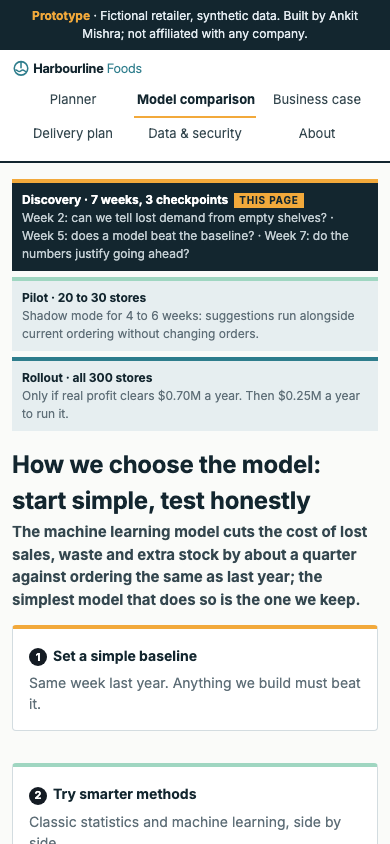
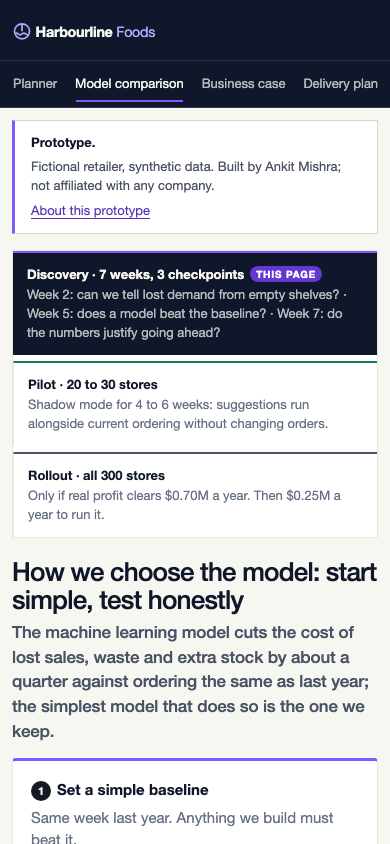
docs: README with use cases for retailers, consultancies, enablement leads, investors and analysts; refreshed screenshots on the new design

diff --git a/README.md b/README.md
@@ -1,49 +1,91 @@
-# Harbourline Foods demand planner (prototype)
+# Harbourline Foods demand planner
 
 > Prototype built by Ankit Mishra. Harbourline Foods is a fictional retailer; all data is synthetic and calibrated to public Statistics Canada series. Not affiliated with, or built for, any company.
 
-**Live demo:** https://harbourline-demand-planner.vercel.app (no sign-in). The site holds no user data: decisions, sent orders and offers live in the browser.
+**Live demo:** https://harbourline-demand-planner.vercel.app (no sign-in; nothing is stored server-side, so what you do in the planner stays in your browser).
 
-A better forecast tells each store how much to order. This prototype shows the three steps of a store forecasting pilot on 24 months of synthetic data for Harbourline Foods, a fictional mid-sized Canadian grocer (300 stores, $200M revenue):
+A better forecast tells each store how much to order. This repository is a working, end-to-end prototype of a grocery demand-forecasting pilot: a data pipeline, four forecasting models backtested in dollars, a store order screen that planners review by exception, a simulated order-to-supplier loop, an autonomy ladder that each product category earns from evidence, a worked business case and a seven-week delivery plan. It runs for a fictional mid-sized Canadian grocer, Harbourline Foods (300 stores, $200M revenue), on a 20-store pilot.
 
-1. **Look at past sales, promotions and holidays:** 104 weeks of weekly sales for 20 pilot stores and 136 products, calibrated to public Statistics Canada series.
-2. **Predict demand for each store and product:** a "same week last year" baseline, a classic time series model, gradient-boosted machine learning and hierarchical reconciliation, tested on a 12-week holdout and judged in dollars.
-3. **Tell planners what to order:** a store order screen with the forecast for next week and the week after, a P10 to P90 range, stock on hand and on order, and a suggested order rounded to the case pack, reviewed by exception. Approved orders go out as one purchase order per supplier, and each category earns autonomy from evidence (see [After approval](#after-approval-sending-orders-and-earning-autonomy)).
+![Landing page](docs/screenshots/landing-desktop.png)
 
-The Business case page works the numbers through from a small set of stated assumptions: $1.06M a year (low $0.72M, high $1.40M), payback in 2.7 years, and the $0.70M go/no-go line.
+| Store order review | Item drawer | Model comparison | Business case |
+|---|---|---|---|
+| ![Planner](docs/screenshots/planner-desktop.png) | ![Planner detail](docs/screenshots/planner-drawer-desktop.png) | ![Models](docs/screenshots/models-desktop.png) | ![Business case](docs/screenshots/business-case-desktop.png) |
 
-![Planner, desktop](docs/screenshots/planner-desktop.png)
+Phone width: [landing](docs/screenshots/landing-mobile.png) · [planner](docs/screenshots/planner-mobile.png) · [drawer](docs/screenshots/planner-drawer-mobile.png) · [models](docs/screenshots/models-mobile.png) · [business case](docs/screenshots/business-case-mobile.png) · [delivery plan](docs/screenshots/plan-mobile.png) · [security](docs/screenshots/security-mobile.png) · [about](docs/screenshots/about-mobile.png)
 
-| Order review drawer | Model comparison | Business case |
-|---|---|---|
-| ![Planner detail](docs/screenshots/planner-drawer-desktop.png) | ![Models](docs/screenshots/models-desktop.png) | ![Business case](docs/screenshots/business-case-desktop.png) |
+## Contents
 
-Phone width: [planner](docs/screenshots/planner-mobile.png) · [models](docs/screenshots/models-mobile.png) · [business case](docs/screenshots/business-case-mobile.png) · [delivery plan](docs/screenshots/plan-mobile.png) · [security](docs/screenshots/security-mobile.png) · [about](docs/screenshots/about-mobile.png) · [landing](docs/screenshots/landing-mobile.png)
+- [What it does](#what-it-does)
+- [Use cases](#use-cases)
+- [Pages](#pages)
+- [Presenting the demo in five minutes](#presenting-the-demo-in-five-minutes)
+- [Results](#results-12-week-holdout-20-stores--136-products-synthetic-data)
+- [Business case](#how-it-maps-to-the-business-case)
+- [The data](#the-data)
+- [The models](#the-models-pipelinetrain_backtestpy)
+- [Review rules and thresholds](#review-rules-and-thresholds-pipelineexportpy)
+- [After approval: sending orders and earning autonomy](#after-approval-sending-orders-and-earning-autonomy)
+- [How it is built](#how-it-is-built)
+- [Run it locally](#run-it-locally)
+- [Deliberate simplifications](#deliberate-simplifications) and [Limitations](#limitations)
+- [What a real engagement would add](#what-a-real-engagement-would-add)
 
-## Presenting this demo (five minutes)
+## What it does
 
-1. **Open the planner** from the landing page. It lands on Store S09, Toronto Leslieville.
-2. **Store order review.** Point at the yellow tile: 24 of 136 items need a planner this week; the rest are auto-approved. The table is sorted needs-review first, then priority, then days of supply. Read one High row aloud: stock runs out before the next delivery.
-3. **Open an item** (click a row). Walk the drawer top to bottom: forecast vs actual with the P10–P90 band, "why this forecast", the order calculation, inventory position, fresh spoilage, and the suggested offer if there is one.
-4. **Accept or override.** Accept one suggestion; override another with a reason. Show the change log filling up.
-5. **Send orders.** "Review and send" is blocked while exceptions remain; use "Accept the N remaining" then review the sheet: one purchase order per supplier, lead time, expected delivery, open-to-buy check. Send. Watch the Sent orders cards move Sent → Acknowledged (20 s) → Shipped (60 s) → Received.
-6. **Autonomy ladder** (chip beside the search box). Thresholds on top, evidence per category below: Pantry earned L3 in the backtest and lost it; fresh stays at L2.
-7. **Suggested offers.** Markdowns on fresh stock that will outlast its shelf life; flyer candidates with excess cover or a strong lift last year. Accept one, dismiss one with a reason.
-8. **Business case.** Three levers, $1.06M against the $0.70M line, payback 2.7 years; the synthetic backtest is labelled illustrative. Close on the Delivery plan: seven weeks, three checkpoints, and how the pieces connect.
+1. **Look back.** 104 weeks of weekly sales, promotions, holidays and weather for 20 pilot stores and 136 products, generated with seasonality and food-price inflation calibrated to public Statistics Canada series.
+2. **Predict.** A "same week last year" baseline, a classic time series model, gradient-boosted machine learning and hierarchical reconciliation, tested on a 12-week holdout and judged on the dollars they save (lost margin, waste, carrying cost), not only on error.
+3. **Order.** A store order screen with the forecast for next week and the week after, a P10 to P90 range, stock on hand and on order, and a suggested order rounded to the case pack. Items that pass every rule are approved automatically; planners decide the exceptions. Approved orders go out as one purchase order per supplier, suppliers acknowledge and ship (simulated), and each category earns more autonomy as its evidence accumulates.
+4. **Decide.** A business case from stated assumptions ($1.06M a year in the base case against a $0.70M go/no-go line, payback 2.7 years) and a seven-week discovery plan with three checkpoints where the work stops if the numbers do not clear.
 
-"Clear demo changes" on the planner page resets the browser state between runs.
+## Use cases
+
+The prototype is a complete reference implementation of a "prove it, then scale it" AI pilot. It is useful to several kinds of reader; start where your question is.
+
+### A retailer or grocer weighing AI-assisted replenishment
+
+You want to know what the end state looks like for your planners before you commit to a vendor or a build. Open the [planner](https://harbourline-demand-planner.vercel.app/planner/), pick a store, and work a week: accept a suggestion, override another with a reason, send the purchase orders, watch the supplier replies, and open the autonomy ladder to see what a category has to prove before the system orders on its own. The [Data & security](https://harbourline-demand-planner.vercel.app/security/) page lists what your IT and data owners would sign off at weeks 5 and 7, and the [Delivery plan](https://harbourline-demand-planner.vercel.app/plan/) shows what you would need to provide in week 1.
+
+### An AI consultancy or strategy team running discovery to pilot
+
+Every page maps to an engagement deliverable. Discovery (7 weeks): the value tree and three checkpoints (week 2 lost demand, week 5 model beats baseline, week 7 business case) are on the Delivery plan; the week 5 deliverable is the [Model comparison](https://harbourline-demand-planner.vercel.app/models/), and the week 7 deliverable is the [Business case](https://harbourline-demand-planner.vercel.app/business-case/). Pilot (20 to 30 stores, shadow mode): the planner screen. Rollout: the autonomy ladder and the integration loop. The six-risk table, the owner column and the "a failed checkpoint is a result, not a failure" rule are the governance scaffolding a client sponsor expects to see. Reuse the structure; swap in the client's data in week 1.
+
+### An enterprise AI enablement or transformation lead
+
+Adoption is designed in, not bolted on: review by exception so planners see only what needs a decision; a reason code on every override, logged and visible, so the model learns from the people using it; an autonomy ladder (L1 approve every line, L2 exceptions only, L3 autonomous with veto) with thresholds set per category class, so trust is earned with evidence and can be lost again; and a named, scoped service account for anything the system writes back to the ordering system. The integration page describes the EDI 850/855/856 loop retailers already run, so the change is to the decision, not the plumbing.
+
+### An investor or portfolio-operations team
+
+This is a stage-gated spend. $0.175M of discovery buys three go/no-go decisions before the $0.45M pilot and the $0.60M rollout, and the whole programme stops if real profit does not clear $0.70M a year. The levers are set at or below the low end of published vendor results, so the case is conservative, and the cumulative-cash chart shows the payback path. The same template applies to any portfolio company with recurring replenishment decisions: grocery, convenience, pharmacy, food service, parts distribution.
+
+### A data scientist or analyst who wants a backtest-in-dollars template
+
+The pipeline is small enough to read in an afternoon: [`generate_data.py`](pipeline/generate_data.py) (synthetic demand with explicit, documented assumptions), [`train_backtest.py`](pipeline/train_backtest.py) (five models, rolling 12-week holdout, a simulation that prices every forecast error in lost margin, waste and carrying cost), [`business_case.py`](pipeline/business_case.py) and [`export.py`](pipeline/export.py) (exception rules, priorities, autonomy evidence). Thirty Python tests pin the invariants, so you can change a model and see whether the dollars, the review rate and the spoilage band still hold.
 
 ## Pages
 
 | Page | What it shows | Where it sits in the plan |
 |---|---|---|
-| Landing | What the prototype is, the three steps, and links into every page | |
-| **Planner** | Store picker, "Order for Wk 43 / Wk 44", KPI strip (WAPE, bias, in-stock, spoilage, inventory value), search by item, SKU or UPC, Department › Category › Subcategory, status, exception, fresh, promo and supplier filters; order table sorted needs-review → priority → days of supply; accept or override with a reason code; change log; send orders (one PO per supplier, open-to-buy check, simulated supplier replies); autonomy ladder per category; suggested markdowns and flyer candidates; item drawer with forecast vs actual, "why this forecast", order calculation, inventory position, fresh info, offers and item accuracy | Pilot, shadow mode |
+| Landing | This week's pilot status (order week, stores, items needing a planner, WAPE, in-stock, model in use), the 20 stores with a direct link into each store's order screen, the model table and the business-case levers | |
+| **Planner** | Store picker (also `?store=S01` in the URL), "Order for Wk 43 / Wk 44", KPI strip (WAPE, bias, in-stock, spoilage, inventory value), search by item, SKU or UPC, Department › Category › Subcategory, status, exception, fresh, promo and supplier filters; order table sorted needs-review → priority → days of supply; accept or override with a reason code; change log; send orders (one PO per supplier, open-to-buy check, simulated supplier replies); autonomy ladder per category; suggested markdowns and flyer candidates; item drawer with forecast vs actual, "why this forecast", order calculation, inventory position, fresh info, offers and item accuracy | Pilot, shadow mode |
 | Model comparison | Four steps ("start simple, test honestly"), results table, winner per category, the "sales are not demand" watch-out | Discovery week 5 checkpoint |
 | Business case | Three levers, cumulative cash, costs, low/base/high, break-even, comparison with published results, and the synthetic backtest (illustrative) | Discovery week 7 checkpoint |
-| Delivery plan | The 7-week discovery plan and three checkpoints, six risks, pilot and adoption, how the planner connects to the ordering system and how autonomy is earned | The whole journey |
+| Delivery plan | The 7-week discovery plan and three checkpoints, six risks with owners, pilot and adoption, how the planner connects to the ordering system and how autonomy is earned | The whole journey |
 | Data & security | Canadian residency, encryption, role-based access, monitoring, integration and write access, sign-off at weeks 5 and 7 | Sixth risk |
 | About | Data, models, review rules and thresholds, formulas, design references, limits | |
+
+## Presenting the demo in five minutes
+
+1. **Landing page.** Point at the status strip (Wk 43, 20 stores, 424 of 2,720 items need a planner) and the store tiles. Click a store with a high review count.
+2. **Store order review.** The violet tile counts the items that need a planner this week; the rest are auto-approved. The table is sorted needs-review first, then priority, then days of supply. Read one High row aloud: stock runs out before the next delivery.
+3. **Open an item** (click a row). Walk the drawer top to bottom: forecast vs actual with the P10 to P90 band, "why this forecast", the order calculation, inventory position, fresh spoilage, and the suggested offer if there is one.
+4. **Accept or override.** Accept one suggestion; override another with a reason. Show the change log filling up.
+5. **Send orders.** "Review and send" is blocked while exceptions remain; use "Accept the N remaining", then review the sheet: one purchase order per supplier, lead time, expected delivery, open-to-buy check. Send. Watch the Sent orders cards move Sent → Acknowledged (20 s) → Shipped (60 s) → Received.
+6. **Autonomy ladder** (chip beside the search box). Thresholds on top, evidence per category below: Household holds L3; fresh stays at L2 through the pilot.
+7. **Suggested offers.** Markdowns on fresh stock that will outlast its shelf life; flyer candidates with excess cover or a strong lift last year. Accept one, dismiss one with a reason.
+8. **Business case and Delivery plan.** Three levers, $1.06M against the $0.70M line, payback 2.7 years; the synthetic backtest is labelled illustrative. Close on seven weeks, three checkpoints, and how the pieces connect.
+
+"Clear demo changes" and "Clear sent orders" on the planner page reset the browser state between runs.
 
 ## Results (12-week holdout, 20 stores × 136 products, synthetic data)
 
@@ -57,11 +99,11 @@ Phone width: [planner](docs/screenshots/planner-mobile.png) · [models](docs/scr
 
 Winner by category (lowest dollar cost): Bakery: hierarchical, Beverages: hierarchical, Dairy & Eggs: ML, Frozen: classic, Household: ML, Meat & Seafood: hierarchical, Pantry: hierarchical, Produce: ML.
 
-Planner KPIs across the 20 stores, simulated on the holdout with suggested orders, stock carried week to week and shelf-life spoilage ([`pipeline/simulate.py`](pipeline/simulate.py)): in-stock 92.8%, spoilage at cost 1.5% of sales (fresh categories 2% to 4%, ambient near zero), against a chain-wide 2% in the business case. Produce, bakery and meat are ordered daily, dairy and beverages every two days, the rest weekly; safety stock covers the review period, not a full week.
+Planner KPIs across the 20 stores, simulated on the holdout with suggested orders, stock carried week to week and shelf-life spoilage ([`pipeline/simulate.py`](pipeline/simulate.py)): in-stock 93%, spoilage at cost 1.5% of sales (fresh categories 2% to 4%, ambient near zero), against a chain-wide 2% in the business case. Produce, bakery and meat are ordered daily, dairy and beverages every two days, ambient weekly.
 
 **Selection rule:** among models that beat the baseline in dollars, pick the simplest one whose savings are within 10% of the best. Result: **gradient-boosted machine learning**. Hierarchical reconciliation saves slightly more but not enough to justify the extra moving part.
 
-Error is WAPE (total absolute error / total units). Dollars come from simulating each week's order (forecast + one standard deviation of safety stock, scaled to the category's review period) with stock carried week to week, and pricing lost margin on empty shelves (25% margin), spoiled perishables (stock that outlasts its shelf life, at cost, plus a small handling shrink) and carrying cost (15% a year), the same assumptions as the business case.
+Error is WAPE (total absolute error / total units). Dollars come from simulating each week's order (forecast + one standard deviation of safety stock, scaled to the category's review period) with stock carried week to week, and pricing lost margin on empty shelves (25% margin), spoiled perishables (stock that outlasts its shelf life, at cost, plus a small handling shrink) and carrying cost (15% a year on stock at cost).
 
 These are illustrative. Synthetic data has cleaner promotion and holiday signals than real data, and the "same week last year" baseline over-orders on it, so the measured levers (sales +2.0%, waste −30%, stock −26%) sit well above the plan's base case. Discovery replaces every assumption with Harbourline's own data.
 
@@ -90,7 +132,7 @@ Our levers sit at or below the low end of published results, so the case is cons
 
 ## The data
 
-Everything about the stores, products, sales and stock is **synthetic**, generated by [`pipeline/generate_data.py`](pipeline/generate_data.py) with a fixed seed (20261017).
+Everything about the stores, products, sales and stock is **synthetic**, generated by [`pipeline/generate_data.py`](pipeline/generate_data.py) with a fixed seed (20261017). The public inputs that shape it are real and cited.
 
 | Input | Source | Status |
 |---|---|---|
@@ -100,17 +142,17 @@ Everything about the stores, products, sales and stock is **synthetic**, generat
 | Weather | Approximate 1991–2020 monthly temperature normals for one city per region (Environment and Climate Change Canada, Canadian Climate Normals family), rounded, plus random weekly anomalies | Approximate |
 | Promotions, lifts, shrink, case packs, lead times, suppliers, on hand, on order, UPCs | Typical ranges chosen for the demo (UPCs use the restricted "2" prefix for in-store codes) | Assumed |
 
-20 stores across Atlantic, Québec, Ontario, Prairies and BC; 136 products in 8 categories; six products launched in the last ten weeks test the new item case; demand is negative binomial around a seasonal, promotional, holiday and weather adjusted mean. Ambient products (shelf life at least 30 days) use dispersion 18 while short-life fresh products use 8. This class-based calibration was chosen over relaxing the autonomy rule because published ambient grocery error is materially below fresh and the prior synthetic noise floor obscured earned autonomy. The fixed seed keeps the result reproducible.
+20 stores across Atlantic, Québec, Ontario, Prairies and BC; 136 products in 8 categories; six products launched in the last ten weeks test the new item case; demand is negative binomial around a seasonal, promotional, holiday and weather adjusted mean. Ambient products (shelf life at least 30 days) use dispersion 18 while short-life fresh products use 8, because real ambient grocery demand is materially steadier than fresh demand; the autonomy thresholds were not loosened to compensate.
 
 ## The models ([`pipeline/train_backtest.py`](pipeline/train_backtest.py))
 
 - **Naive (reference only):** same as last week.
 - **Baseline:** same week last year (seasonal naive); recent average for items without a year of history.
 - **Classic:** damped Holt exponential smoothing on each series, deseasonalised by a category week-of-year index.
-- **Machine learning:** scikit-learn `HistGradientBoostingRegressor` with a Poisson loss, the same histogram gradient boosting family as LightGBM (LightGBM's native library would not load on the build machine, so the scikit-learn implementation is used). Features: promotion, discount, price, holiday, temperature and anomaly, week of year, lags shifted by the forecast gap, rolling means, and the category's rolling mean in the store.
+- **Machine learning:** scikit-learn `HistGradientBoostingRegressor` with a Poisson loss, the same histogram gradient boosting family as LightGBM. Features: promotion, discount, price, holiday, temperature and anomaly, week of year, lags shifted by the forecast gap, rolling means, and category and store identifiers. One model per horizon, trained on the 92 weeks before the holdout and validated on the 12 weeks before that.
 - **Hierarchical:** the ML store forecasts blended with a region-level model and shared back to stores in proportion.
 - **New products:** the category features let a new item start from similar products' pattern; the planner shows the closest reference item.
-- **Ranges and orders:** P10/P90 from validation-period errors per series; suggested order = P50 + 1.28 × σ × √(review days ÷ 7) (about a 90% service level over the category's review period) − on hand − on order, rounded up to whole cases. For the week after, on hand is projected from today's stock, this week's order, this week's forecast and spoilage, so nothing is counted twice. Days of supply = stock ÷ (forecast ÷ 7); stock on order counts only when it lands before the shelf runs empty.
+- **Ranges and orders:** P10/P90 from validation-period errors per series; suggested order = P50 + 1.28 × σ × √(review days ÷ 7) (about a 90% service level over the category's review period) − on hand − on order, rounded up to whole cases. For the week after, on hand is projected from today's stock, this week's order, this week's forecast and spoilage, so nothing is counted twice. Days of supply = (on hand + on order) ÷ daily forecast.
 
 ## Review rules and thresholds ([`pipeline/export.py`](pipeline/export.py))
 
@@ -126,7 +168,7 @@ An item needs review when at least one rule fires; everything else is auto-appro
 | Holiday week | A statutory holiday week with a category lift ≥ 25% |
 | New item | Launched within the last ten weeks |
 
-Priority: **High** when the stockout or spoilage rule fires (64 lines chain-wide), **Medium** for any other exception (365), **Low** otherwise. The invariants behind the screen (whole cases, P10 ≤ P50 ≤ P90, "why" parts sum to the forecast, the days-of-supply formula, no double counting for the week after, real calendar weeks, the review-rate band and the spoilage band) are tested in [`tests/test_planner_data.py`](tests/test_planner_data.py).
+Priority: **High** when the stockout or spoilage rule fires (64 lines chain-wide), **Medium** for any other exception (365), **Low** otherwise. The invariants behind the screen (whole cases, P10 ≤ P50 ≤ P90, "why" parts sum to the forecast, the days-of-supply formula, no double counting for the week after, real calendar weeks, the review-rate band and the spoilage band) are tested in [`tests/test_planner_data.py`](tests/test_planner_data.py) and [`tests/test_orders.py`](tests/test_orders.py).
 
 ## After approval: sending orders and earning autonomy
 
@@ -134,16 +176,21 @@ Priority: **High** when the stockout or spoilage rule fires (64 lines chain-wide
 |---|---|---|
 | ![Send sheet](docs/screenshots/planner-send-sheet-desktop.png) | ![Sent orders](docs/screenshots/planner-sent-orders-desktop.png) | ![Autonomy](docs/screenshots/planner-autonomy-desktop.png) |
 
-- **Send orders.** Once every exception is decided, the planner reviews one purchase order per supplier or DC (lines, cases, cost at cost price, lead time, expected delivery, lines changed) and the week's spend against the store's open-to-buy (cost of expected sales × 1.10 in the prototype). Sending is simulated: each PO gets a number and moves Sent → Acknowledged (EDI 855, 20 s) → Shipped (EDI 856, 60 s) → Received (delivery date or 120 s), with the stage derived from the send time so a reload keeps it. The Delivery plan page shows the real loop: planner app → ordering/ERP (API or EDI 850) → acknowledgement → ship notice → goods receipt → nightly feed back.
-- **Autonomy ladder.** L1 planner approves every line (shadow mode) · L2 exceptions only (this screen) · L3 autonomous replenishment with veto. Thresholds are set per category class, because ambient items forecast better and stock out less than fresh: ambient WAPE ≤ 35%, bias ± 5%, overrides ≤ 5% of lines, stockouts ≤ 10% of lines; fresh WAPE ≤ 40%, stockouts ≤ 30%. A category moves up after eight consecutive passing weeks. Once promoted, one failing week is a grace week; two consecutive failures demote it. Levels are computed week by week from the 12-week backtest ([`app/src/lib/logic.ts`](app/src/lib/logic.ts)), never set by hand. **Option A was used:** the generator now gives all ambient products a lower, class-based noise level instead of weakening this evidence rule. Household passes all 12 weeks and is L3 (12-week WAPE 27.7%, bias +0.8%, worst-week stockouts 8.8%). Frozen is L2 with five current passing weeks after a +6.4% bias miss; Pantry is L2 after consecutive bias and stockout misses; Beverages is L2 because stockouts remain above 10%; fresh categories remain L2 by design. The panel's "what it needs to move up" column shows the exact evidence and grace/demotion rule. The pilot sets production bars at the week 5 checkpoint.
-- **At L3** the agent checks inventory position, stock constraints, cash (open-to-buy), supplier constraints and the ordering system's acknowledgement, writes the order, logs its reasoning and posts a summary with a veto window. Objective: in-stock ≥ target, waste ≤ target, spend inside open-to-buy.
-- **Suggested offers.** Markdown rule: fresh stock on hand beyond what the remaining shelf life can sell at the forecast rate (≥ 3 units), 30% off Thu–Sat, 80% expected to clear; shown as revenue recovered against the write-off avoided. Flyer rule: cover ≥ 2.5 weeks after this order, or last year's promo lift ≥ 1.3x (capped at 2.5x for the estimate). Accept or dismiss with a reason; both are logged like overrides, and at L3 they would be proposed by the agent automatically.
+- **Send orders.** Once every exception is decided, the planner reviews one purchase order per supplier or DC (lines, cases, cost at cost price, lead time, expected delivery, lines changed) and the week's spend against the store's open-to-buy (cost of expected sales × 1.10 in the prototype). Sending is simulated: each PO gets a number and moves Sent → Acknowledged (EDI 855, 20 s) → Shipped (EDI 856, 60 s) → Received (at the expected delivery date or after 120 s), with the stage derived from the send time so a reload keeps it. The Delivery plan page shows the real loop: planner app → ordering/ERP (API or EDI 850) → acknowledgement → ship notice → goods receipt → nightly feed back into the forecast.
+- **Autonomy ladder.** L1 planner approves every line (shadow mode) · L2 exceptions only (this screen) · L3 autonomous replenishment with veto. Thresholds are set per category class, because ambient items forecast better and stock out less than fresh: ambient WAPE ≤ 35%, bias ± 5%, overrides ≤ 5% of lines, stockouts ≤ 10% of lines; fresh WAPE ≤ 40%, stockouts ≤ 30%. A category moves up after four consecutive passing weeks and drops back after two consecutive misses; fresh categories are capped at L2 through the pilot. Household holds L3 on the backtest evidence; Frozen is on a passing streak; Pantry and Beverages have recent misses.
+- **At L3** the agent checks inventory position, stock constraints, cash (open-to-buy), supplier constraints and the ordering system's acknowledgement, writes the order, logs its reasoning and posts a summary with a veto window. Objective: in-stock ≥ target, waste ≤ target, spend inside open-to-buy. It never changes a price or a planogram itself.
+- **Suggested offers.** Markdown rule: fresh stock on hand beyond what the remaining shelf life can sell at the forecast rate (≥ 3 units), 30% off Thu–Sat, 80% expected to clear; shown as revenue recovered against the write-off avoided. Flyer rule: cover ≥ 2.5 weeks after this order, or last year's promo lift ≥ 1.3x (capped at 2.5x for the estimate). Accept or dismiss with a reason; both are logged like an override.
 
 Phone width: [send sheet](docs/screenshots/planner-send-sheet-mobile.png) · [sent orders](docs/screenshots/planner-sent-orders-mobile.png) · [autonomy](docs/screenshots/planner-autonomy-mobile.png) · [offers](docs/screenshots/planner-offers-mobile.png). The PO builder, open-to-buy check, lifecycle timer, markdown and flyer rules and the autonomy evaluation (including demotion) are tested in [`app/tests/logic.test.ts`](app/tests/logic.test.ts).
 
-## Design informed by industry practice
+## How it is built
 
-The order screen uses patterns grocery planning tools document publicly, not any vendor's interface or branding: forecast review by exception with automatic approval ([Oracle Retail Demand Forecasting, forecast review](https://docs.oracle.com/en/industries/retail/demand-forecasting/22.1.202.0/rdfcu/forecast-review-task.htm)); shelf life and spoilage for fresh ([RELEX fresh](https://www.relexsolutions.com/solutions/fresh-inventory/)); store ordering with planner overrides ([Afresh store ordering](https://afresh.com/solutions/store-ordering)); and prioritised order lists ([Lokad, economic purchase prioritization](https://docs.lokad.com/library/economic-purchase-prioritization)). Left out on purpose: truck fill, supplier portals, multi-step approvals, what-if tuning, a native mobile app, markdown optimisation and batch tracking.
+- **Pipeline (Python 3.12):** pandas, scikit-learn, statsmodels. `generate_data.py` → `train_backtest.py` → `export.py`, plus `business_case.py` and `simulate.py`. Deterministic: a clean rerun reproduces `data/results/backtest.csv` and `data/generated/meta.json` byte for byte.
+- **App (Next.js 15, React 19, TypeScript):** server-rendered so `/api/data/*` can read the exported JSON in `app/data/` at runtime. The landing page is a server component that reads the same JSON at build time. The planner is a client component; decisions, the change log, sent orders and offer decisions live in `localStorage`. All order, offer and autonomy rules are in [`app/src/lib/logic.ts`](app/src/lib/logic.ts) and covered by Node tests.
+- **Design:** the AM Consulting Group design language (ink, paper, violet; hairline dividers; 4px radius; weight-500 tight-tracked display type; 44px controls; violet for selection and the next action, green for verified, red for rejection). Tokens are CSS variables in [`app/src/app/globals.css`](app/src/app/globals.css). Harbourline Foods, its wordmark and its stores are invented.
+- **Tests and CI:** 30 Python tests and 7 Node tests. [`.github/workflows/ci.yml`](.github/workflows/ci.yml) runs the tests, typecheck and build on every push and can re-run the pipeline on demand.
+- **Hosting:** Vercel, no environment variables, no database.
+- **Tooling:** built with Claude Code and Codex, with the author reviewing every model choice, threshold and sentence.
 
 ## Run it locally
 
@@ -155,12 +202,10 @@ python3.12 -m venv .venv && .venv/bin/pip install -r requirements.txt
 .venv/bin/pytest -q
 
 cd app && npm ci && npm test && npm run build
-npm start                                            # or: npm run dev
+npm start                                      # or: npm run dev
 ```
 
-The app is server-rendered so `/api/data/*` can read the exported JSON in `app/data/` at runtime. There is no sign-in and no environment variable to set.
-
-Generated data, results and the app's JSON are committed, so the app builds without re-running the pipeline. CI ([`.github/workflows/ci.yml`](.github/workflows/ci.yml)) runs the tests and the app typecheck and build on every push, and can re-run the pipeline on demand.
+Generated data, results and the app's JSON are committed, so the app builds without re-running the pipeline. Screenshots are retaken with [`app/scripts/screenshots.sh`](app/scripts/screenshots.sh) against a running app.
 
 ## Structure
 
@@ -168,10 +213,10 @@ Generated data, results and the app's JSON are committed, so the app builds with
 data/public/       Statistics Canada series used for calibration (with source, vector, URL, date)
 data/generated/    synthetic sales, products, stores
 data/results/      backtest, forecasts, holdout predictions
-pipeline/          generate_data.py → train_backtest.py → export.py; business_case.py
+pipeline/          generate_data.py → train_backtest.py → export.py; business_case.py; simulate.py
 tests/             order formula, exception rules, planner data invariants, generated data invariants, business case reproduction
-app/               Next.js app (planner, models, business case, plan, security, about); src/lib/logic.ts holds the PO, offer and autonomy rules; app/data/ is the exported JSON served by /api/data
-docs/              screenshots
+app/               Next.js app (landing, planner, models, business case, plan, security, about); src/lib/logic.ts holds the PO, offer and autonomy rules; app/data/ is the exported JSON served by /api/data
+docs/screenshots/  desktop (1440) and phone (390) captures of every page and planner state
 ```
 
 ## Deliberate simplifications
@@ -189,3 +234,15 @@ docs/              screenshots
 - Orders use a simple rule; production would add delivery schedules, minimum orders and shelf capacity.
 - Decisions, sent orders and offers live in the browser only; in production planners would use the grocer's single sign-on and see their own stores. Nothing connects to a retailer system.
 - Harbourline Foods, its stores, products and suppliers are invented for this prototype.
+
+## What a real engagement would add
+
+- Week 1: the retailer's 24 months of sales by store and product, stock and out-of-stock records, promotions, prices and supplier lead times; the data-quality report that follows.
+- Week 2: lost-demand estimation from stock records, so the baseline is demand, not sales.
+- Weeks 4 to 6: daily forecasting for fresh, delivery schedules and minimum order quantities, shelf capacity, and the real EDI or API connection to the ordering system with a scoped service account.
+- Pilot: shadow mode for 4 to 6 weeks in 20 to 30 stores, planners' override reasons feeding the model, autonomy evidence accumulating per category.
+- Rollout: only if real profit clears the go/no-go line; then run cost, monitoring and a model-refresh cadence.
+
+## Licence and credits
+
+Code and documentation by Ankit Mishra. Public inputs are credited inline (Statistics Canada tables, Environment and Climate Change Canada normals, published vendor case studies for the comparison table). Design language from the AM Consulting Group design system.
